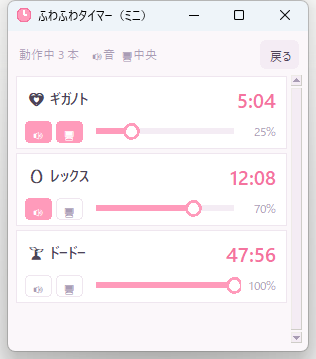
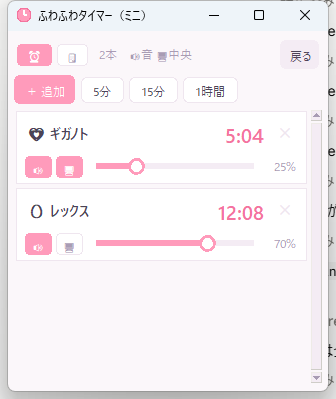
ミニ表示にチェックリストとタイマーの作成・削除を追加
ミニ表示だけで一通り操作できるようにした。

- ⏰ / 🗒 のタブでタイマーとチェックリストを切り替え
- 「＋ 追加」で新しいタイマー（本体と同じダイアログ）。
  5分 / 15分 / 1時間のワンタッチつき
- 各行の × でタイマー削除（確認あり）
- 最後に開いていたタブを覚える

チェックリストは本体とミニで同じ中身を見せたいので、項目そのものを
App が持つようにして ChecklistPage はそれを映すだけにした。
どちらで変えても save_checklist() が開いている画面をまとめて描き直す。

その過程で見つけた不具合も直した:
- rebuild_list() がタイマー0本のとき早期 return していて、
  ミニ側の一覧が更新されなかった
- NewTimerDialog が常に本体に transient していたため、
  本体をしまっている状態だと親が隠れたままになっていた。
  呼び出し元のウィンドウを指定できるようにした

diff --git a/ark_breeding_timer.py b/ark_breeding_timer.py
@@ -74,6 +74,7 @@ DEFAULT_CONFIG = {
     "geometry": "980x700",
     "page": "timers",         # 最後に開いていたページ
     "mini_geometry": "300x320",
+    "mini_page": "timers",
 }
 
 
@@ -517,35 +518,46 @@ class MarkButton(tk.Canvas):
             self.itemconfigure(self.text, fill=th.INK_SUB)
 
 
-class ChecklistPage(tk.Frame):
-    """✓完了 / △保留 / ✗中止 の3状態と、状態ごとの絞り込みだけの簡単な一覧。"""
+def load_checklist():
+    """保存済みのチェックリストを読む（壊れていても落ちないように）。"""
+    out = []
+    for it in load_json(CHECKLIST_PATH, []):
+        try:
+            text = str(it.get("text", "")).strip()
+            if not text:
+                continue
+            st = it.get("state")
+            out.append({"text": text,
+                        "state": st if st in CHECK_STATES else None})
+        except AttributeError:
+            pass
+    return out
 
-    def __init__(self, master, app):
+
+class ChecklistPage(tk.Frame):
+    """✓完了 / △保留 / ✗中止 の3状態と、状態ごとの絞り込みだけの簡単な一覧。
+
+    本体とミニ表示の両方に置けるよう、項目そのものは App が持ち、
+    この画面はそれを映すだけにしてある（片方で変えたらもう片方も更新される）。
+    """
+
+    def __init__(self, master, app, compact=False):
         super().__init__(master, bg=th.BG)
         self.app = app
-        self.items = self._load()
         self.filter = "todo"
-        self._compact = False
+        self._compact = compact
+        app.checklist_pages.append(self)
         self._build()
+        if compact:
+            self.lbl_hint.pack_forget()
         self.render()
 
-    # ---- 保存 ----
-    def _load(self):
-        out = []
-        for it in load_json(CHECKLIST_PATH, []):
-            try:
-                text = str(it.get("text", "")).strip()
-                if not text:
-                    continue
-                st = it.get("state")
-                out.append({"text": text,
-                            "state": st if st in CHECK_STATES else None})
-            except AttributeError:
-                pass
-        return out
+    @property
+    def items(self):
+        return self.app.checklist_items
 
     def save(self):
-        save_json(CHECKLIST_PATH, self.items)
+        self.app.save_checklist()
 
     # ---- 画面 ----
     def _build(self):
@@ -739,9 +751,8 @@ class ChecklistPage(tk.Frame):
             return
         if messagebox.askyesno(APP_NAME, "全部の項目を消します。よろしいですか？",
                                parent=self):
-            self.items = []
+            self.items.clear()      # 共有リストなので中身だけ空にする
             self.save()
-            self.render()
 
 
 class MiniWindow(tk.Toplevel):
@@ -770,11 +781,28 @@ class MiniWindow(tk.Toplevel):
         bar.pack(fill="x", padx=8, pady=(8, 4))
         th.RoundButton(bar, "戻る", self.back, kind="soft", bg=th.BG,
                        font=th.F["small"], padx=10).pack(side="right")
+        self.tabs = {}
+        for key, label in (("timers", "⏰"), ("checklist", "🗒")):
+            p = Pill(bar, label, lambda k=key: self.show_page(k), bg=th.BG,
+                     padx=10, pady=4)
+            p.pack(side="left", padx=(0, 4))
+            self.tabs[key] = p
         self.lbl_head = tk.Label(bar, text="", bg=th.BG, fg=th.INK_SUB,
                                  font=th.F["small"], anchor="w")
-        self.lbl_head.pack(side="left")
+        self.lbl_head.pack(side="left", padx=(4, 0))
 
-        wrap = tk.Frame(self, bg=th.BG)
+        # ---- タイマーのページ ----
+        self.page_timer = tk.Frame(self, bg=th.BG)
+
+        add = tk.Frame(self.page_timer, bg=th.BG)
+        add.pack(fill="x", padx=5, pady=(0, 4))
+        th.RoundButton(add, "＋ 追加", self.new_timer, kind="primary", bg=th.BG,
+                       font=th.F["small"], padx=12).pack(side="left")
+        for text, sec in (("5分", 300), ("15分", 900), ("1時間", 3600)):
+            th.Chip(add, text, lambda s=sec, t=text: self.app.quick_add(t, s),
+                    bg=th.BG, font=th.F["small"]).pack(side="left", padx=(4, 0))
+
+        wrap = tk.Frame(self.page_timer, bg=th.BG)
         wrap.pack(fill="both", expand=True, padx=5, pady=(0, 7))
         self.canvas = tk.Canvas(wrap, bg=th.BG, highlightthickness=0, bd=0)
         vs = ttk.Scrollbar(wrap, orient="vertical", command=self.canvas.yview,
@@ -788,14 +816,39 @@ class MiniWindow(tk.Toplevel):
             scrollregion=self.canvas.bbox("all")))
         self.canvas.bind("<Configure>", lambda e: self.canvas.itemconfigure(
             self._win, width=e.width))
-        self.bind("<MouseWheel>", self._wheel)
 
+        # ---- チェックリストのページ（本体と同じ中身を映す）----
+        self.page_check = ChecklistPage(self, app, compact=True)
+
+        self.bind("<MouseWheel>", self._wheel)
         self.protocol("WM_DELETE_WINDOW", self.back)
+        self.page = None
+        self.show_page(app.cfg.get("mini_page") or "timers")
         self.rebuild()
 
+    def show_page(self, name):
+        if name not in ("timers", "checklist"):
+            name = "timers"
+        self.page = name
+        for key, pill in self.tabs.items():
+            pill.update_view(key == name)
+        self.page_timer.pack_forget()
+        self.page_check.pack_forget()
+        if name == "checklist":
+            self.page_check.pack(fill="both", expand=True, padx=8, pady=(0, 7))
+            self.lbl_head.configure(text="")   # 🔊🖥 の凡例はタイマー側だけの話
+        else:
+            self.page_timer.pack(fill="both", expand=True)
+            self.update_view()
+        self.app.cfg["mini_page"] = name
+
+    def new_timer(self):
+        self.app.open_new_dialog(parent=self)
+
     def _wheel(self, e):
+        cv = self.page_check.canvas if self.page == "checklist" else self.canvas
         try:
-            self.canvas.yview_scroll(int(-e.delta / 120), "units")
+            cv.yview_scroll(int(-e.delta / 120), "units")
         except tk.TclError:
             pass
 
@@ -824,12 +877,18 @@ class MiniWindow(tk.Toplevel):
         top = tk.Frame(inner, bg=th.CARD)
         top.pack(fill="x")
         icon = th.KIND_STYLE.get(t.kind, ("⏰", th.PEACH, ""))[0]
+        dele = tk.Label(top, text="×", bg=th.CARD, fg=th.LINE,
+                        font=th.F["cute_b"], cursor="hand2", padx=4)
+        dele.pack(side="right")
+        dele.bind("<ButtonRelease-1>", lambda e, tt=t: self._delete(tt))
+        dele.bind("<Enter>", lambda e, w=dele: w.configure(fg=th.RED))
+        dele.bind("<Leave>", lambda e, w=dele: w.configure(fg=th.LINE))
+        rem = tk.Label(top, text="", bg=th.CARD, fg=th.PINK_DK,
+                       font=th.F["num_s"])
+        rem.pack(side="right", padx=(0, 4))
         lbl = tk.Label(top, text="%s %s" % (icon, t.label), bg=th.CARD, fg=th.INK,
                        font=th.F["ui_b"], anchor="w", justify="left")
         lbl.pack(side="left", fill="x", expand=True)
-        rem = tk.Label(top, text="", bg=th.CARD, fg=th.PINK_DK,
-                       font=th.F["num_s"])
-        rem.pack(side="right")
 
         ctl = tk.Frame(inner, bg=th.CARD)
         ctl.pack(fill="x", pady=(4, 0))
@@ -852,6 +911,11 @@ class MiniWindow(tk.Toplevel):
 
         return {"timer": t, "rem": rem, "sound": b_sound, "center": b_center,
                 "vol": vol, "pct": pct, "label": lbl}
+
+    def _delete(self, t):
+        if messagebox.askyesno(APP_NAME, "「%s」を消しますか？" % t.label,
+                               parent=self):
+            self.app.remove_timer(t.id)   # 中で rebuild まで走る
 
     def _toggle(self, t, attr):
         setattr(t, attr, not getattr(t, attr))
@@ -880,7 +944,8 @@ class MiniWindow(tk.Toplevel):
             v = t.eff_volume(self.app.cfg.get("volume", 0.7))
             r["pct"].configure(text="%d%%" % round(v * 100))
         # アイコンだけだと意味が分からないので、ここで凡例も兼ねる
-        self.lbl_head.configure(text="動作中 %d 本　🔊音  🖥中央" % live)
+        if self.page != "checklist":
+            self.lbl_head.configure(text="%d本　🔊音 🖥中央" % live)
 
     def back(self):
         self.app.close_mini()
@@ -898,6 +963,9 @@ class App(tk.Tk):
         self.popup = None
         self.mini = None
         self.alarm_on = False
+        # チェックリストは本体とミニ表示で同じものを見せるので App が持つ
+        self.checklist_items = load_checklist()
+        self.checklist_pages = []
 
         self.title(APP_NAME)
         self.geometry(self.cfg.get("geometry", "980x700"))
@@ -1102,16 +1170,25 @@ class App(tk.Tk):
         self.empty.pack_forget()
         if not self.timers:
             self.empty.pack(fill="x")
-            return
-        for t in sorted(self.timers, key=lambda x: (x.remaining() <= 0, x.remaining())):
-            card = TimerCard(self.list_frame, self, t)
-            card.pack(fill="x", pady=1)
-            self.cards[t.id] = card
+        else:
+            for t in sorted(self.timers,
+                            key=lambda x: (x.remaining() <= 0, x.remaining())):
+                card = TimerCard(self.list_frame, self, t)
+                card.pack(fill="x", pady=1)
+                self.cards[t.id] = card
+        # 空になったときも忘れずに（ここを早期 return の後ろに置くと更新されない）
         if self.mini is not None and self.mini.winfo_exists():
             self.mini.rebuild()
 
     def save_timers(self):
         save_json(TIMERS_PATH, [t.to_dict() for t in self.timers])
+
+    def save_checklist(self):
+        """保存して、開いているチェックリスト画面をぜんぶ描き直す。"""
+        save_json(CHECKLIST_PATH, self.checklist_items)
+        self.checklist_pages = [p for p in self.checklist_pages if p.winfo_exists()]
+        for p in self.checklist_pages:
+            p.render()
 
     def _load_timers(self):
         for d in load_json(TIMERS_PATH, []):
@@ -1323,8 +1400,9 @@ class App(tk.Tk):
             pass
 
     # ---------------- その他 ----------------
-    def open_new_dialog(self):
-        NewTimerDialog(self)
+    def open_new_dialog(self, parent=None):
+        """parent を渡すとそのウィンドウに紐づく（ミニ表示から開くとき用）。"""
+        NewTimerDialog(self, parent=parent)
 
     def open_settings(self):
         SettingsDialog(self)
@@ -1557,7 +1635,7 @@ class SoundPicker(tk.Frame):
 
 # ---------------------------------------------------------------- 新規ダイアログ
 class NewTimerDialog(tk.Toplevel):
-    def __init__(self, app: App):
+    def __init__(self, app: App, parent=None):
         super().__init__(app)
         self.app = app
         self.F = app.F
@@ -1566,7 +1644,8 @@ class NewTimerDialog(tk.Toplevel):
         self.title("新しいタイマー")
         self.configure(bg=th.BG)
         self.geometry("800x620")
-        self.transient(app)
+        # 本体をしまっているときは、出どころのウィンドウに紐づける
+        self.transient(parent if parent is not None else app)
         self.attributes("-topmost", bool(app.cfg["always_on_top"]))
 
         sw = tk.Frame(self, bg=th.BG)
